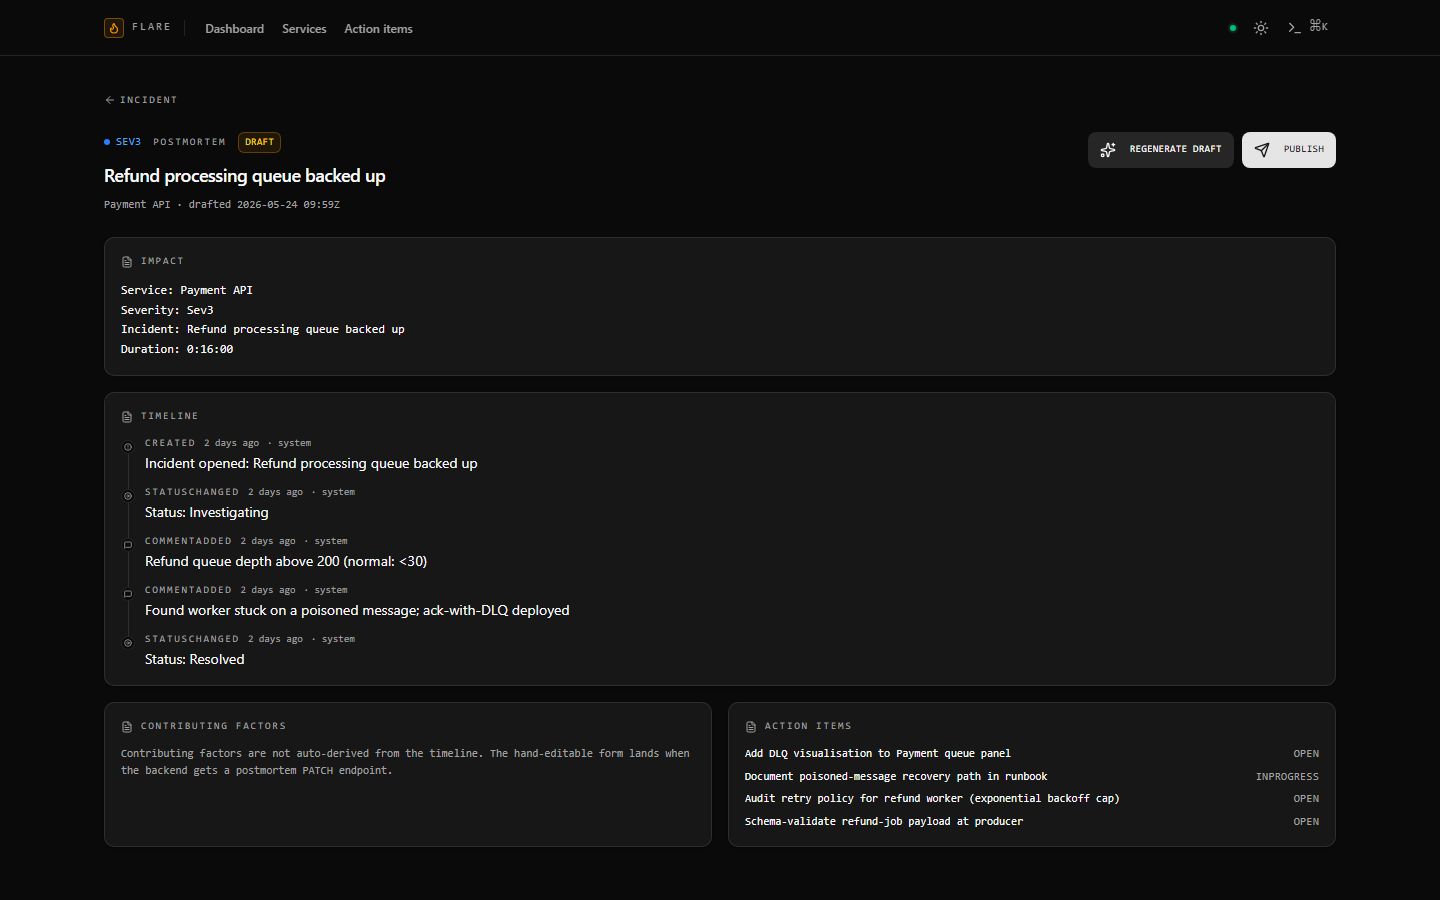
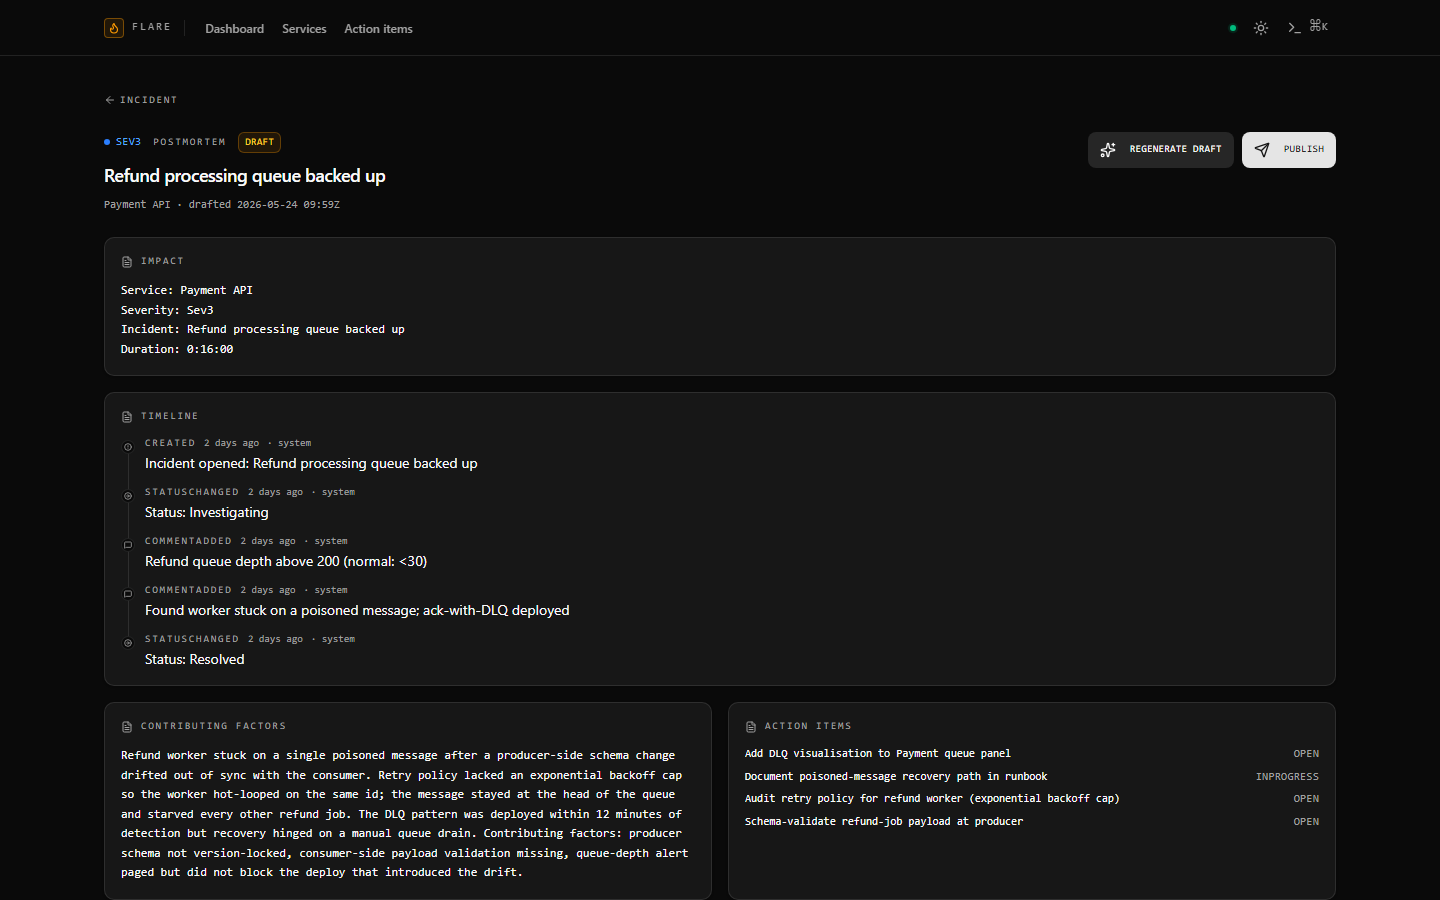
feat: postmortem contributing factors renders root cause when set
When the postmortem has a non-empty RootCause, the Contributing factors
section now renders that text in the same mono-pre style as Impact.
Falls back to the existing placeholder copy when RootCause is blank, so
the unfilled state still reads honestly.

Backend already exposes rootCause on the postmortem DTO and the upcoming
postmortem PATCH endpoint will write to it.

Changed region(s): [[0.0625, 0.8089, 0.9375, 1.0]]

diff --git a/client/src/pages/PostmortemPage.tsx b/client/src/pages/PostmortemPage.tsx
@@ -165,7 +165,11 @@ export function PostmortemPage() {
             </Section>
 
             <Section title="Contributing factors">
-              <ContributingFactorsPlaceholder />
+              {postmortem.rootCause && postmortem.rootCause.trim().length > 0 ? (
+                <ContributingFactorsBody text={postmortem.rootCause} />
+              ) : (
+                <ContributingFactorsPlaceholder />
+              )}
             </Section>
 
             <Section title="Action items">
@@ -289,6 +293,16 @@ function ContributingFactorsPlaceholder() {
       Contributing factors are not auto-derived from the timeline. The hand-editable form
       lands when the backend gets a postmortem PATCH endpoint.
     </p>
+  )
+}
+
+function ContributingFactorsBody({ text }: { text: string }) {
+  // Mirror the Impact section's mono-pre style so the two prose blocks read as
+  // a pair. RootCause is plain text from the domain — no markdown rendering.
+  return (
+    <pre className="whitespace-pre-wrap break-words font-mono text-[12px] leading-relaxed text-foreground">
+      {text}
+    </pre>
   )
 }
 
